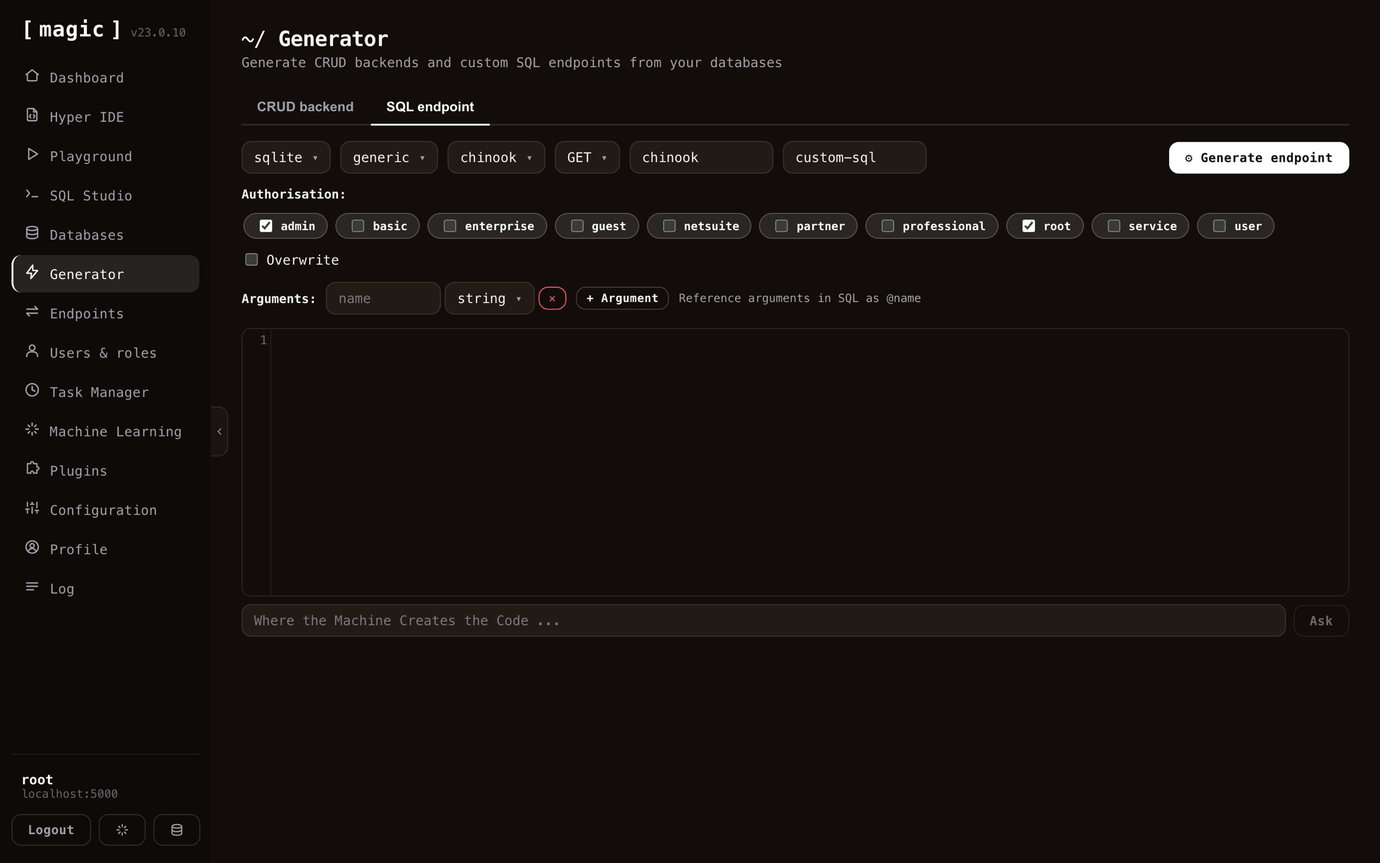
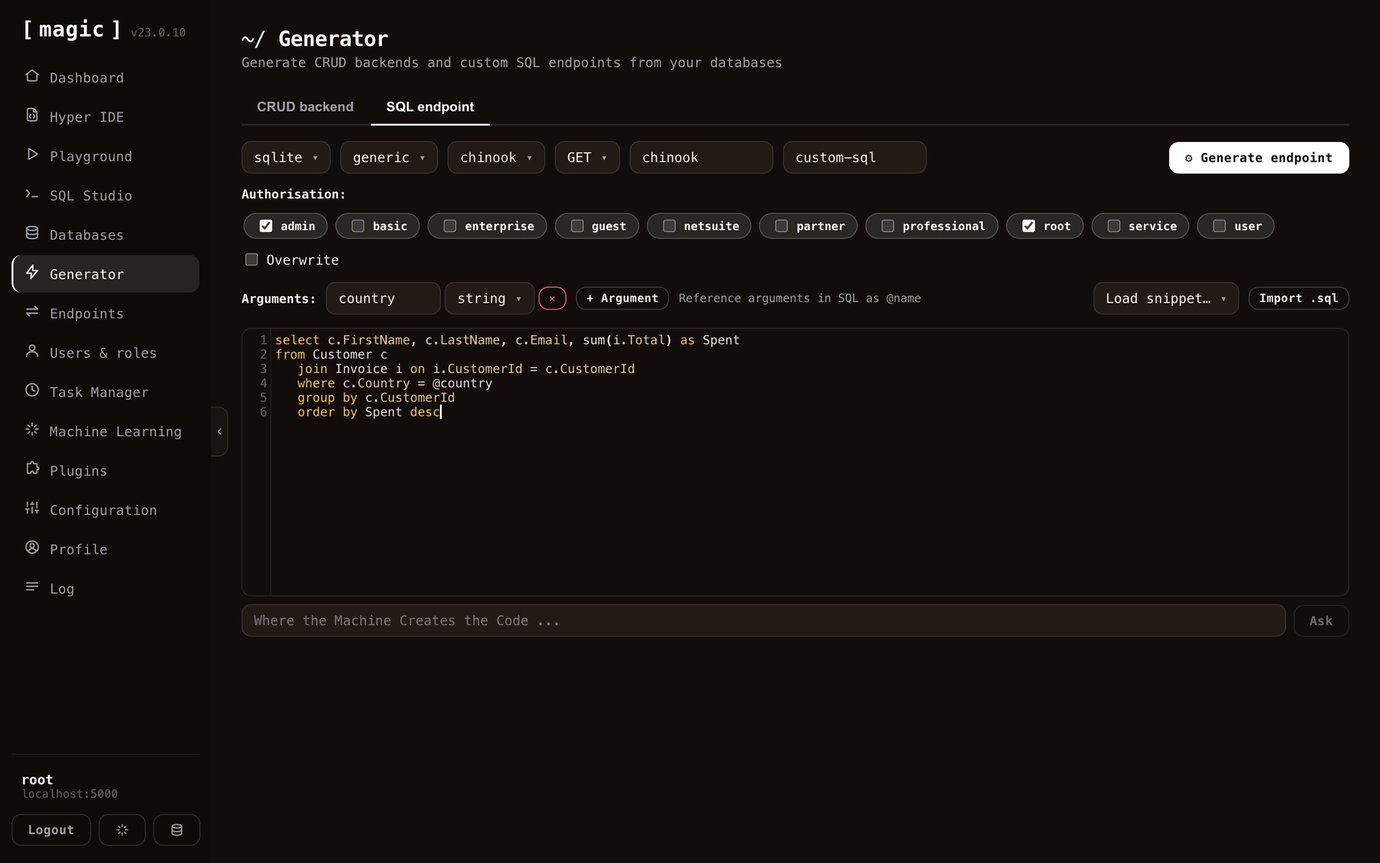
b

diff --git a/_includes/faq.html b/_includes/faq.html
@@ -1,0 +1,34 @@
+{% comment %}
+  Renders a visible FAQ section plus schema.org FAQPage JSON-LD, both from the
+  page's `faq:` front matter — a list of { q, a } pairs. Declared once per
+  page, rendered twice: for humans and for crawlers/LLMs.
+{% endcomment %}
+{% if page.faq %}
+<h2 id="frequently-asked-questions">Frequently asked questions</h2>
+<div class="faq">
+  {% for item in page.faq %}
+  <details class="faq__item">
+    <summary>{{ item.q }}</summary>
+    <p>{{ item.a }}</p>
+  </details>
+  {% endfor %}
+</div>
+<script type="application/ld+json">
+{
+  "@context": "https://schema.org",
+  "@type": "FAQPage",
+  "mainEntity": [
+    {% for item in page.faq %}
+    {
+      "@type": "Question",
+      "name": {{ item.q | jsonify }},
+      "acceptedAnswer": {
+        "@type": "Answer",
+        "text": {{ item.a | jsonify }}
+      }
+    }{% unless forloop.last %},{% endunless %}
+    {% endfor %}
+  ]
+}
+</script>
+{% endif %}

diff --git a/assets/css/overrides.css b/assets/css/overrides.css
@@ -134,3 +134,23 @@ div.highlighter-rouge:hover .code-copy-btn,
 figure.highlight:hover .code-copy-btn,
 .code-copy-btn:focus-visible { opacity: 1; }
 .code-copy-btn.copied { color: #8fce9a; border-color: rgba(143, 206, 154, 0.5); }
+
+/* FAQ sections (_includes/faq.html) — warm collapsible cards. */
+.faq { margin: 1em 0 1.6em 0; }
+.faq__item {
+  background: var(--warm-surface);
+  border: 1px solid rgba(216, 185, 138, 0.22);
+  border-radius: 10px;
+  margin-bottom: 10px;
+  padding: 0;
+}
+.faq__item summary {
+  cursor: pointer;
+  padding: 0.85em 1.1em;
+  font-weight: 700;
+  color: var(--warm-text);
+  list-style-position: inside;
+}
+.faq__item summary::marker { color: var(--warm-gold); }
+.faq__item[open] summary { border-bottom: 1px solid rgba(216, 185, 138, 0.15); }
+.faq__item p { margin: 0; padding: 0.9em 1.1em; color: #cfc6b8; }

diff --git a/dashboard/users-roles/index.md b/dashboard/users-roles/index.md
@@ -5,6 +5,15 @@ header:
   image: /assets/images/hero/users-roles.png
   og_image: /assets/images/hero/users-roles-og.png
   image_description: Users and roles
+faq:
+  - q: "What is the Users and roles component?"
+    a: "A graphical user interface for managing your application's users and roles, built on role based access control (RBAC)."
+  - q: "How does authentication work in Magic?"
+    a: "Magic uses JWT (JSON Web Token) authentication, transmitted as a Bearer token in the Authorization HTTP header. Magic can also act as an OAuth server, and supports OIDC, letting users sign in through external identity providers such as Google or Microsoft."
+  - q: "How do endpoints declare who can access them?"
+    a: "Each endpoint declares its own access by invoking auth.ticket.verify with a comma separated list of roles. If the user is not authenticated or lacks the role, an exception is thrown."
+  - q: "Can I build my own authentication on top of Magic?"
+    a: "Yes. The auth system is deliberately built as a 'half fabricated' system you can extend and customise, for instance with your own registration flow."
 ---
 
 The Users & Roles component allows you to manage and administrate users and roles in your system, and/or create new users and roles. This component is what allows you to control how others are accessing your system. You might for instance have 3 different roles in your company, being C-level executives, managers, and employees. Typically these 3 different roles should not have access to the same parts, so you want to associate users with these different roles in Magic.
@@ -23,9 +32,13 @@ Magic is built upon [JWT](https://jwt.io) authentication and authorisation. This
 
 In addition to its own username and password authentication, Magic can act as an OAuth server, and it can use OIDC (OpenID Connect) for authentication - allowing your users to sign in through an external identity provider such as Google, Microsoft, or any other OIDC-compliant provider. Regardless of how a user signs in - whether through Magic's own login, as an OAuth client, or through an OIDC identity provider - they are still mapped onto Magic's own internal roles, and access is still governed by the same internal RBAC-based system described below. This gives you the convenience of federated, standards-based sign-in, without giving up the fine-grained role-based control Magic provides over your endpoints.
 
+![Screenshot of signing in to Magic through an external OIDC identity provider](/assets/images/oidc-login-magic.png)
+
 ## Users and roles internals
 
 All access in Magic is based upon roles, implying by default all users belonging to the same role(s) have access to the same parts of your backend. This makes it easier to provide access to specific parts of your system(s), and/or also see which parts of your system specific users have access to. This is referred to as RBAC or Role Based Access Control.
+
+![Screenshot of the Roles tab listing all roles with their descriptions](/assets/images/roles.jpeg)
 
 Magic does _not_ create _"access rights"_ associations for roles. Instead the system allows individual endpoints to declare themselves what roles are allowed to invoke the endpoint. This is done by invoking **[auth.ticket.verify]** from your Hyperlambda code, and passing in a comma separated list of roles that are allowed to invoke the endpoint. Below is how you would lock down an endpoint from being accessed by users not belonging to either the root role or the admin role.
 
@@ -40,3 +53,4 @@ The above will throw an exception if the user is not authenticated, or does not 
 
 The authentication and authorisation system in Magic is very flexible, and allows you to consume it from your own apps. The auth system is built as a _"half fabricated auth system"_, allowing you to implement it any way you see fit, to customise it according to your needs.
 
+{% include faq.html %}

diff --git a/dashboard/endpoints/index.md b/dashboard/endpoints/index.md
@@ -5,6 +5,17 @@ header:
   image: /assets/images/hero/endpoints-dash.png
   og_image: /assets/images/hero/endpoints-dash-og.png
   image_description: The Endpoints component
+faq:
+  - q: "What is the Endpoints component?"
+    a: "It lets you browse every HTTP endpoint in your cloudlet and invoke them, similarly to how Swagger works - documenting your endpoints and letting you test them from the same screen."
+  - q: "How do I parametrise an invocation?"
+    a: "When you expand an endpoint, every argument it accepts becomes a typed input field - checkboxes for booleans, date pickers for dates, and so on. CRUD endpoints additionally expose paging, sorting, and per-column filter arguments."
+  - q: "Can I get an OpenAPI specification for my endpoints?"
+    a: "Yes. Every endpoint has an OpenAPI button giving you its OpenAPI specification. You can copy both the URL and the specification itself, and paste it into another orchestrator LLM or AI agent, allowing the other party to understand your backend."
+  - q: "Can I test file uploads and downloads?"
+    a: "Yes. You can upload files to endpoints that accept file uploads, and download the files an endpoint returns, directly from the component."
+  - q: "What does the response dialog show?"
+    a: "The HTTP status code, how many milliseconds the invocation took, the response headers, and the response body with syntax highlighting - plus a button to copy the response."
 ---
 
 The Endpoints component allows you to see your HTTP endpoints, and invoke these, similarly to how Swagger works. From your endpoints menu item you can search for, parametrise, and invoke your endpoints - Allowing you to simulate a client, to understand how your endpoints work, and _"debug"_ these as you develop them. This component hence serves two purposes; One being documenting your endpoints, another being testing your endpoints.
@@ -20,6 +31,12 @@ When you expand an endpoint, every argument the endpoint accepts becomes an inpu
 When you click _"Invoke"_, the component shows you the response; its HTTP status code, how many milliseconds the invocation took, the response headers, and the response body itself with syntax highlighting. A _"Copy response"_ button lets you bring the result into your own code or documentation.
 
 ![Screenshot of the response dialog showing status code, timing, and the JSON response body](/assets/images/endpoints-invocation-response.jpeg)
+
+## OpenAPI specifications
+
+Every endpoint also has an _"OpenAPI"_ button, giving you the OpenAPI specification for that particular endpoint. You can copy both the OpenAPI URL and the specification itself. This is particularly useful when working with AI - copy and paste the OpenAPI specification into some other orchestrator LLM or AI agent, and the other party immediately understands your backend; what endpoints exist, what arguments they take, and what they return - allowing the AI to correctly invoke your API, or generate a frontend consuming it.
+
+The component also allows for uploading and downloading of files - you can upload files to endpoints accepting file uploads, and download the files an endpoint returns, allowing you to test binary and document endpoints directly from the component.
 
 ## Hyperlambda endpoint meta data
 
@@ -43,3 +60,5 @@ As you are browsing your endpoints, and you expand individual items, you'll noti
 The endpoint's meta information is retrieved directly from your Hyperlambda files. Magic automatically allows you to invoke your user defined endpoints with this component.
 
 The endpoints component in Magic is obviously not as strong as something such as OpenAPI, Swagger, or Postman - But for Hyperlambda endpoints, it's probably more than enough.
+
+{% include faq.html %}

diff --git a/dashboard/hyper-ide/index.md b/dashboard/hyper-ide/index.md
@@ -5,6 +5,17 @@ header:
   image: /assets/images/hero/hyper-ide.png
   og_image: /assets/images/hero/hyper-ide-og.png
   image_description: Editing Hyperlambda in Hyper IDE
+faq:
+  - q: "What is Hyper IDE?"
+    a: "Hyper IDE is Magic's integrated development environment, running in your browser. It lets you browse and edit every file on your server, with syntax highlighting and autocomplete for Hyperlambda."
+  - q: "Can Hyper IDE generate code for me using AI?"
+    a: "Yes. Write a description of what you want your code to do, select it, and click Generate - or use the 'Where the Machine Creates the Code' bar below the editor. The Hyperlambda Generator transforms your English into working Hyperlambda in seconds."
+  - q: "How do I test my code?"
+    a: "Since Hyperlambda is a dynamic language, you can save your file and immediately execute it by clicking F5, without compiling anything. This gives you a much tighter development loop than compiled languages."
+  - q: "Can I edit other languages than Hyperlambda?"
+    a: "Yes, you can edit TypeScript, Ruby, HTML, C# and other file types, although for those languages a dedicated IDE will typically serve you better. Hyper IDE's strength is Hyperlambda."
+  - q: "What does F1 do?"
+    a: "F1 asks the integrated AI to explain the Hyperlambda code you have selected, giving you instant help understanding unfamiliar code."
 ---
 
 Hyper IDE is your _"goto component"_ when you want to create your own modules using Magic and Hyperlambda. It's a web based IDE, allowing you to edit your code, create new modules, and contains a lot of things you're used to from a traditional IDE. It is also the natural extension of Magic's [endpoint generator](/dashboard/endpoint-generator/), since it allows you to edit the Hyperlambda endpoint files after Magic has generated your CRUD backend. In addition, Hyper IDE allows you to use AI to generate code using _"vibe coding"_ constructs.
@@ -73,3 +84,5 @@ If you're developing a module in your own local installation of Magic, you can m
 ## Continuous Integration and Deployment
 
 You can even connect creation of such modules, and automatically deploying them to production through for instance a GitHub action using CI/CD, by creating a token using the _"Generate token"_ feature on your Profile screen. This gives you a JWT token you can use to authenticate a process, such that it's allowed to invoke your `/magic/system/file-system/install-module` endpoint. This will allow you to automatically upload a zip file, and re-install it after uploading it.
+
+{% include faq.html %}

diff --git a/dashboard/machine-learning/index.md b/dashboard/machine-learning/index.md
@@ -5,6 +5,17 @@ header:
   image: /assets/images/hero/machine-learning.png
   og_image: /assets/images/hero/machine-learning-og.png
   image_description: Machine Learning models
+faq:
+  - q: "What is the Machine Learning component?"
+    a: "It lets you create your own private AI models by crawling your website or uploading files, turning the content into RAG training data. Under the hood it uses OpenAI, with RAG and VSS towards your own database for accurate, domain specific answers."
+  - q: "How do I train a model?"
+    a: "Create a model, then click Import to crawl a website, or upload files in formats such as XML, JSON, YAML, CSV or PDF. Once imported, click Vectorize so the data can be used for VSS lookups."
+  - q: "What is a model?"
+    a: "A collection of training snippets. When a question is asked, VSS search finds the most relevant snippets, which are passed as context to OpenAI, which answers using only that context - drastically reducing hallucinations."
+  - q: "Can I supervise how my model is used?"
+    a: "Yes. Questions and answers are stored in the History tab, letting you review and improve your model over time, and use historical requests for business intelligence or lead generation."
+  - q: "What are AI functions?"
+    a: "Installable functions your model can invoke as an AI agent - allowing the chatbot to trigger workflows, query your database, or create training snippets, according to instructions provided by the user."
 ---
 
 Magic's Machine Learning component allows you to create your own AI based machine learning model, either by crawling your website and scraping it for data, or by manually uploading files, resulting in a private and custom _"machine learning model"_. Machine learning in Magic is built upon OpenAI's API and is similar to ChatGPT, and under the hood it's using RAG and VSS towards your own database to extract context as it's answering questions using OpenAI.
@@ -223,3 +234,5 @@ You can also use OpenAI to generate code for you. Both Hyper IDE and SQL Studio 
 In addition, Magic integrates a support chatbot directly into its dashboard. This provides you with integrated help directly from the dashboard. Click the AI chatbot button at the bottom of the navigation sidebar to access this chatbot.
 
 ![Screenshot of Magic's integrated support chatbot](/assets/images/integrated-chatbot.jpeg)
+
+{% include faq.html %}

diff --git a/dashboard/endpoint-generator/index.md b/dashboard/endpoint-generator/index.md
@@ -5,6 +5,17 @@ header:
   image: /assets/images/hero/endpoint-generator.png
   og_image: /assets/images/hero/endpoint-generator-og.png
   image_description: The Endpoint Generator
+faq:
+  - q: "What does the Endpoint Generator do?"
+    a: "It reads metadata from your database and automatically generates a complete CRUD web API wrapping it, secured according to your instructions. What would normally take weeks of coding is done in seconds."
+  - q: "Which endpoint types can it generate?"
+    a: "POST, GET, PUT and DELETE endpoints for each table, plus additional GET endpoints such as count, aggregate, distinct, and a keyword density search endpoint."
+  - q: "What is keyword density search?"
+    a: "A search endpoint that ranks each row by how many of your keywords it matches, sorting by most matches first. It is a good substitute for RAG and VSS - no embeddings, no vector database, no AI inference - yet often yields surprisingly relevant results."
+  - q: "Does caching apply to all generated endpoints?"
+    a: "No. Caching, implying the Cache-Control HTTP header, is only applied to GET endpoints in this component."
+  - q: "Can I wrap my own SQL in an endpoint?"
+    a: "Yes. The SQL endpoint tab lets you provide any SQL statement, declare arguments you reference as @name in the SQL, choose an HTTP verb and authorisation, and generate a secure endpoint wrapping it. The AI prompt bar can even write the SQL for you."
 ---
 
 The Endpoint Generator component allows you to automatically generate an HTTP CRUD web API wrapping your database of choice. This component is one of the core components of the Low-Code and software development automation parts of Magic, and allows you to generate a web API wrapping your database automatically. The endpoint generator component works by reading meta data from your database, which it then uses to generate Hyperlambda HTTP endpoints for you automatically.
@@ -101,3 +112,5 @@ The CRUD endpoint generator creates endpoints wrapping the POST, GET, PUT, and D
 * PUT - Typically used for updating values in your database
 * PATCH - Alternative to PUT with similar semantics, typically when adding new fields (SQL endpoint generator only)
 * DELETE - Typically used when deleting records in your database.
+
+{% include faq.html %}

diff --git a/dashboard/chatbot-wizard/index.md b/dashboard/chatbot-wizard/index.md
@@ -5,6 +5,17 @@ header:
   image: /assets/images/hero/chatbot-wizard.png
   og_image: /assets/images/hero/chatbot-wizard-og.png
   image_description: The Chatbot Wizard
+faq:
+  - q: "What is the Chatbot Wizard?"
+    a: "The fastest way to create an AI website chatbot. Provide your website URL, and the wizard crawls the site, turns what it finds into training data, and gives you an embeddable chatbot a few minutes later."
+  - q: "What do I need before creating a chatbot?"
+    a: "An OpenAI API key. Optionally you can configure Google reCAPTCHA, although Magic ships with its own PoW-based Magic CAPTCHA, which is good enough for most."
+  - q: "What is a persona?"
+    a: "A template for the chatbot's system instruction. Personas with DYNAMIC in their name generate the instruction from your website's landing page, typically producing a much higher quality chatbot."
+  - q: "How do I embed the chatbot on my website?"
+    a: "Once created, use the Machine Learning component's Embed button, which gives you a script tag you can paste into your website, with themes and colours you can customise."
+  - q: "Can I refine the chatbot afterwards?"
+    a: "Yes. The chatbot is a machine learning model, so you manage it with the Machine Learning component - editing training data, changing its model or instruction, and monitoring its usage."
 ---
 
 The Chatbot Wizard component allows you to rapidly create an AI website chatbot powered by OpenAI that you can embed on your website. It's not as powerful as the [Machine Learning](/dashboard/machine-learning/) component, but much easier to use. You can start out with the Chatbot Wizard, for then to later configure your model with the Machine Learning component.
@@ -56,3 +67,5 @@ The wizard reports its progress as it crawls your site and turns the pages into 
 If you want to see what the different chatbot themes look like, you can try all different themes [here](https://ainiro.io/blog/try-our-chatbot-themes).
 
 When you're done with the above you probably want to use the [Machine Learning component](/dashboard/machine-learning/) to further configure and manage your chatbot.
+
+{% include faq.html %}

diff --git a/dashboard/sql-studio/index.md b/dashboard/sql-studio/index.md
@@ -5,6 +5,17 @@ header:
   image: /assets/images/hero/sql-studio.png
   og_image: /assets/images/hero/sql-studio-og.png
   image_description: SQL Studio
+faq:
+  - q: "What is SQL Studio?"
+    a: "SQL Studio is a web based SQL workbench that allows you to execute any SQL towards your database of choice, and visually design your databases. It supports SQL Server, PostgreSQL, MySQL, MariaDB, and SQLite."
+  - q: "Can SQL Studio generate SQL from natural language?"
+    a: "Yes. Below the SQL editor you will find an input textbox that says 'Where the Machine Creates the Code'. Describe the query you want in plain English, click Ask, and the AI writes the SQL for you, aware of your selected database and its schema. This also works for DDL, allowing you to generate entire database structures from a description."
+  - q: "Do I need to write DDL to create tables?"
+    a: "No. The visual designer lets you create tables, add columns, and declare foreign keys through dialogs, without writing any DDL. You can still use plain SQL DDL from the SQL view if you prefer."
+  - q: "What is Safe mode?"
+    a: "Safe mode prevents you from selecting more than 200 records in one go, protecting your server and browser from exhausting memory. Turn it off if you need to select more records."
+  - q: "Can I save frequently used SQL statements?"
+    a: "Yes. Save any statement as a named snippet and load it later from the Load snippet dropdown. You can also import .sql files from your local machine, and export query results as CSV files."
 ---
 
 SQL Studio allows you to visually design your database, and also execute any SQL towards your database of choice.
@@ -85,3 +96,5 @@ SQL Studio's designer works transparently towards all database types, implying y
 ## How to create a database using SQL Studio
 
 You cannot actually create a database with SQL Studio. This needs to be done using the [Databases menu item](/dashboard/databases/) below the _"Create"_ section. However, once you have created a database, you can use SQL Studio to create tables in it, and modify these as you see fit.
+
+{% include faq.html %}

diff --git a/dashboard/hyperlambda-generator/index.md b/dashboard/hyperlambda-generator/index.md
@@ -5,6 +5,17 @@ header:
   image: /assets/images/hero/hyperlambda-generator.png
   og_image: /assets/images/hero/hyperlambda-generator-og.png
   image_description: The Hyperlambda Generator
+faq:
+  - q: "What is the Hyperlambda Generator?"
+    a: "Magic's own proprietary SLM (Small Language Model), fine-tuned with more than 600,000 training snippets, that transforms natural language into working Hyperlambda code in typically 1.5 to 5 seconds."
+  - q: "Can it hallucinate function calls?"
+    a: "No. Every slot the generated code invokes is verified against the slots that actually exist in your cloudlet before the code is returned. If the model invokes something that does not exist, the code is rejected and regenerated."
+  - q: "Where can I use it?"
+    a: "Everywhere code can be created in the dashboard: Hyper IDE, the Hyperlambda Playground, the Task Manager, SQL Studio, and the Generator - plus AI agents can use it over MCP to create new endpoints on demand."
+  - q: "How should I write my prompts?"
+    a: "Use formal specifications with technical language, naming your tables, arguments, and conditions precisely. If the result is wrong, press CTRL+Z to undo, refine your description, and generate again."
+  - q: "Can AI agents use the generator?"
+    a: "Yes. The generator is available over the MCP server, allowing a connected AI agent such as Claude to create new endpoints - and hence new tools for itself - on demand."
 ---
 
 Magic contains its own Hyperlambda Generator. This isn't a single component, but goes through most parts of the platform that somehow allow you to create Hyperlambda code. It's built as our own proprietary SLM (Small Language Model), fine-tuned with more than 600,000 training snippets, so it's actually very strong on creating backend code, even though it's using a _"small base model"_.
@@ -62,3 +73,5 @@ Below your main code view in Hyper IDE and the Hyperlambda Playground, you can s
 * Make the title argument mandatory
 * Log all incoming arguments
 * Etc ...
+
+{% include faq.html %}

diff --git a/dashboard/hyperlambda-playground/index.md b/dashboard/hyperlambda-playground/index.md
@@ -5,6 +5,13 @@ header:
   image: /assets/images/hero/playground.png
   og_image: /assets/images/hero/playground-og.png
   image_description: The Hyperlambda Playground
+faq:
+  - q: "What is the Hyperlambda Playground?"
+    a: "A component that executes Hyperlambda in 'immediate mode', showing you the result instantly. It is a great place to learn Hyperlambda, and ships with a collection of example snippets you can load, study, modify and execute."
+  - q: "Why does the Playground have both an input and an output section?"
+    a: "Executing Hyperlambda transforms its lambda graph, similar to how XSLT transforms XML. The output section shows your code as transformed by the execution itself."
+  - q: "Can I save my own snippets?"
+    a: "Yes. Click Save snippet and give it a name, building a collection of admin snippets you can re-execute at will - including snippets that generate or modify other Hyperlambda code."
 ---
 
 The Hyperlambda Playground component allows you to play with [Hyperlambda](/hyperlambda/) code, and execute your code in _"immediate mode"_, for then to see the result of your execution immediately. The Hyperlambda playground is also a nice starting point to learn Hyperlambda, since it contains a whole range of Hyperlambda snippets that somehow demonstrate Hyperlambda's capabilities, and provides examples for you as you start out learning Hyperlambda. Use the _"Load snippet…"_ dropdown to load up some snippet, study it, modify it, and then execute it - For then to afterwards see the result of the execution.
@@ -28,3 +35,5 @@ In the Hyperlambda Playground's snippets collection, you can find some snippets 
 You can of course create your own similar snippets, that automatically perform similar types of tasks, for then to save these Hyperlambda files to your snippets collection.
 
 * [Read more about Hyperlambda](/hyperlambda/) to understand how to use this component
+
+{% include faq.html %}

diff --git a/dashboard/configuration/index.md b/dashboard/configuration/index.md
@@ -5,6 +5,15 @@ header:
   image: /assets/images/hero/configuration.png
   og_image: /assets/images/hero/configuration-og.png
   image_description: The Configuration component
+faq:
+  - q: "What is the Configuration component?"
+    a: "It lets you view and edit your server's configuration - the appsettings.json file used throughout the system for settings such as SMTP, OpenAI, database connection strings, and authentication."
+  - q: "Is it dangerous to edit the configuration?"
+    a: "You should be careful, since erroneous configuration can stop your system from working or weaken its security. The component refuses to save invalid JSON, and provides helper dialogs for the most important sections such as OpenAI, SMTP and reCAPTCHA."
+  - q: "How do I restrict which frontends can call my backend?"
+    a: "The magic:frontend:urls section declares CORS, as a comma separated list of URLs allowed to retrieve data from your backend. By default all URLs are allowed."
+  - q: "Where do I configure my database connections?"
+    a: "The magic:databases section holds connection strings for sqlite, mysql, pgsql and mssql, each as name/value pairs, plus a default database type."
 ---
 
 The configuration component allows you to view and edit your server's configuration settings. Your server's configuration is basically your _"appsettings.json"_ file, which is being used in all parts of the system to retrieve configuration settings, such as for instance SMTP settings when email slots are sending emails, etc.
@@ -63,3 +72,5 @@ This works similarly to log4net, and implies _"minimum logging level"_, where an
 ## Sockets configuration
 
 The `url` setting here allows you to override which URL clients need to use to negotiate a socket channel with your server. You can also completely turn off web sockets entirely here, by changing the value to `null` or remove the section entirely.
+
+{% include faq.html %}
